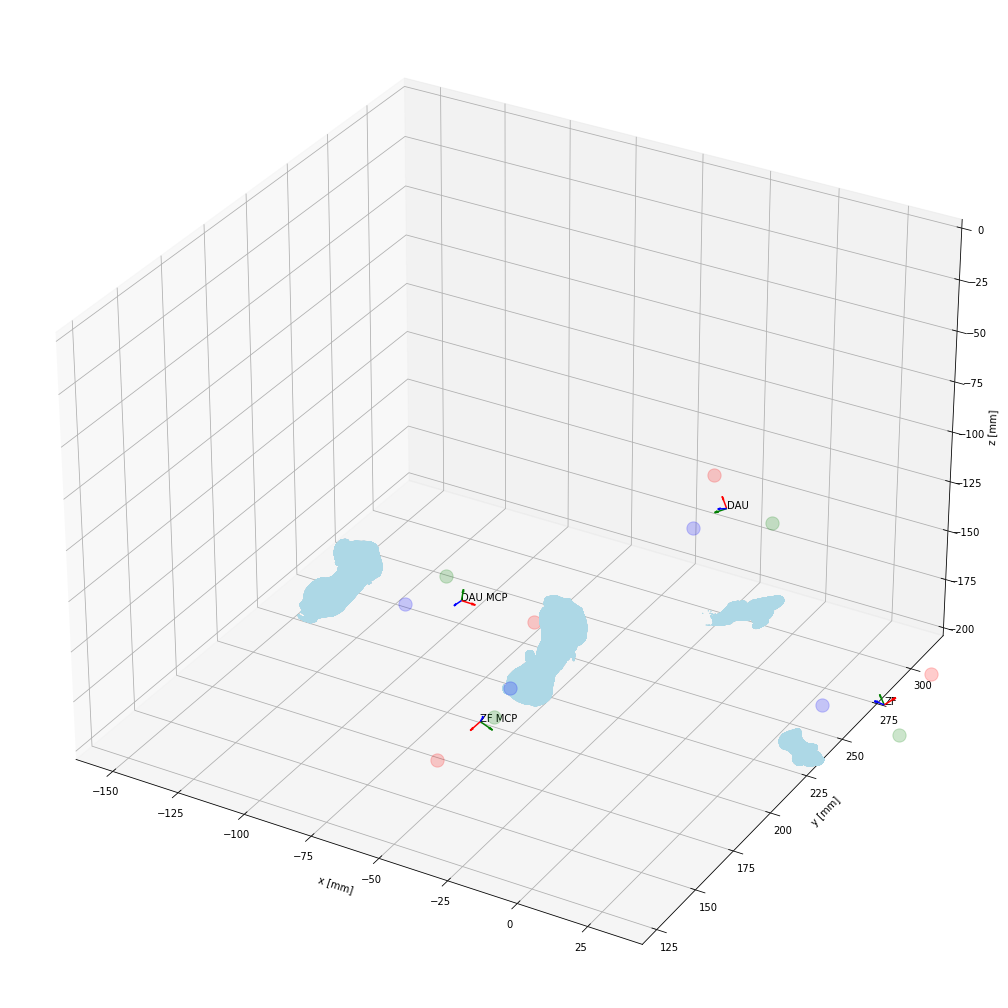
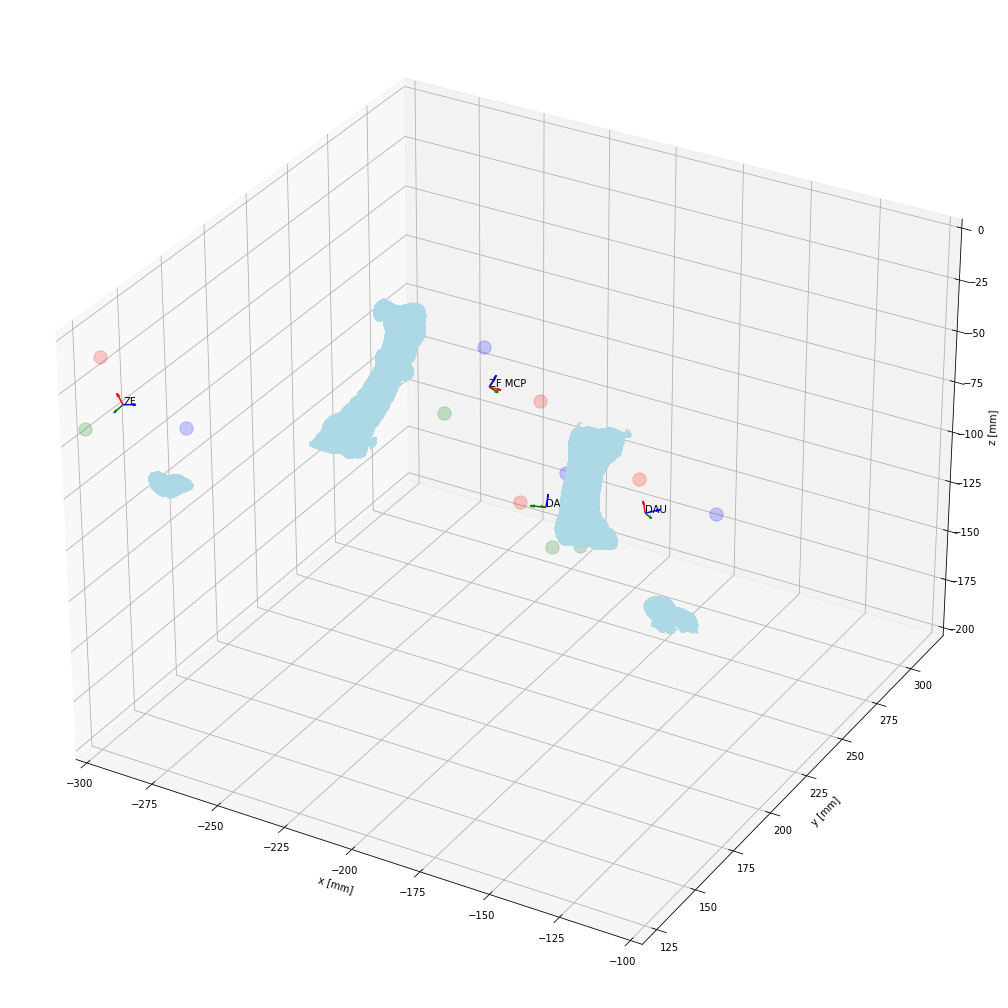
joints visualization improved, displaying trajectories in optitrack system

diff --git a/joints.py b/joints.py
@@ -1,0 +1,143 @@
+# %%
+
+import json
+import numpy as np
+import matplotlib.pyplot as plt
+from ipywidgets import widgets
+
+with open('./data/joints.json') as f:
+    data = json.load(f)
+
+data = np.array(data)
+data.shape
+# %%
+
+color_hand_joints = [[1.0, 0.0, 0.0],
+                     [0.0, 0.4, 0.0], [0.0, 0.6, 0.0], [
+                         0.0, 0.8, 0.0], [0.0, 1.0, 0.0],  # thumb
+                     [0.0, 0.0, 0.6], [0.0, 0.0, 1.0], [
+                         0.2, 0.2, 1.0], [0.4, 0.4, 1.0],  # index
+                     [0.0, 0.4, 0.4], [0.0, 0.6, 0.6], [
+                         0.0, 0.8, 0.8], [0.0, 1.0, 1.0],  # middle
+                     [0.4, 0.4, 0.0], [0.6, 0.6, 0.0], [
+                         0.8, 0.8, 0.0], [1.0, 1.0, 0.0],  # ring
+                     [0.4, 0.0, 0.4], [0.6, 0.0, 0.6], [0.8, 0.0, 0.8], [1.0, 0.0, 1.0]]  # little
+
+
+class HandJoints(object):
+    """
+    Data shape:
+    0: base
+    1: thumb base
+    2: thumb joint 1
+    3: thumb joint 2
+    4: thumb joint 3
+    5: index base
+    6: index joint 1
+    7: index joint 2
+    8: index joint 3
+    ...
+    """
+
+    def __init__(self, data) -> None:
+        super().__init__()
+        self.data = data
+        self.base = data[:, 0, :]
+        self.thumb_mcp = data[:, 1, :]
+        self.thumb_pip = data[:, 2, :]
+        self.thumb_dip = data[:, 3, :]
+        self.index_mcp = data[:, 4, :]
+        self.index_pip = data[:, 5, :]
+        self.index_dip = data[:, 6, :]
+        self.filter_data()
+
+    def filter_data(self, tfilt=0.9):
+        self.data_filtered = np.zeros(self.data.shape)
+        self.data_filtered[0, :, :] = self.data[0, :, :]
+        for i in range(1, self.data.shape[0]):
+            self.data_filtered[i, :, :] = tfilt * self.data_filtered[i-1, :, :] +(1 - tfilt) * self.data[i, :, :]
+
+
+    def plot(self, ax, timestamp: int):
+        ax.scatter(self.data[timestamp, 0, 0], self.data[timestamp,
+                                                         0, 1], self.data[timestamp, 0, 2], c='k')
+        self.plot_finger(ax, timestamp, 0, color='r')
+        self.plot_finger(ax, timestamp, 1, color='b')
+        self.plot_finger(ax, timestamp, 2, color='g')
+        self.plot_finger(ax, timestamp, 3, color='m')
+        self.define_limits(ax, timestamp)
+
+    def plot_finger(self, ax, timestamp: int, finger: int, color='r'):
+        finger_l = list(range(1 + finger * 3, 1 + finger * 3 + 3))
+        ax.scatter(self.data[timestamp, finger_l, 0], self.data[timestamp,
+                                                                finger_l, 1], self.data[timestamp, finger_l, 2], c=color, s=20)
+        finger_l.insert(0, 0)
+        ax.plot(self.data[timestamp, finger_l, 0], self.data[timestamp,
+                                                             finger_l, 1], self.data[timestamp, finger_l, 2], c=color)
+
+    def define_limits(self, ax, timestamp: int, rang=0.05):
+        p0 = self.data[1, 0, :]
+        ax.set_xlim3d([p0[0] - rang, p0[0] + rang])
+        ax.set_ylim3d([p0[1] - rang, p0[1] + rang])
+        ax.set_zlim3d([p0[2] - rang, p0[2] + rang])
+
+
+idx = widgets.IntSlider(min=0, max=data.shape[0] - 1, value=0)
+handj = HandJoints(data)
+
+
+def draw_3d_skeleton(pose_cam_xyz):
+    """
+    :param pose_cam_xyz: 21 x 3
+    :return:
+    """
+    assert pose_cam_xyz.shape[0] == 21
+    plt.figure(figsize=(16, 16))
+    ax = plt.subplot(111, projection='3d')
+    marker_sz = 10
+    line_wd = 2
+
+    for joint_ind in range(pose_cam_xyz.shape[0]):
+        ax.plot(pose_cam_xyz[joint_ind:joint_ind + 1, 0], pose_cam_xyz[joint_ind:joint_ind + 1, 1],
+                pose_cam_xyz[joint_ind:joint_ind + 1, 2], '.', c=color_hand_joints[joint_ind], markersize=marker_sz)
+        if joint_ind == 0:
+            continue
+        elif joint_ind % 4 == 1:
+            ax.plot(pose_cam_xyz[[0, joint_ind], 0], pose_cam_xyz[[0, joint_ind], 1], pose_cam_xyz[[0, joint_ind], 2],
+                    color=color_hand_joints[joint_ind], linewidth=line_wd)
+        else:
+            ax.plot(pose_cam_xyz[[joint_ind - 1, joint_ind], 0], pose_cam_xyz[[joint_ind - 1, joint_ind], 1],
+                    pose_cam_xyz[[joint_ind - 1, joint_ind],
+                                 2], color=color_hand_joints[joint_ind],
+                    linewidth=line_wd)
+
+    ax.axis('auto')
+    x_lim = [-0.1, 0.1, 0.02]
+    y_lim = [-0.1, 0.12, 0.02]
+    z_lim = [0.0, 0.8, 0.1]
+    x_ticks = np.arange(x_lim[0], x_lim[1], step=x_lim[2])
+    y_ticks = np.arange(y_lim[0], y_lim[1], step=y_lim[2])
+    z_ticks = np.arange(z_lim[0], z_lim[1], step=z_lim[2])
+    plt.xticks(x_ticks, [x_lim[0], '', '', '', '',
+                         0, '', '', '', x_lim[1]], fontsize=14)
+    plt.yticks(y_ticks, [y_lim[0], '', '', '', '', 0,
+                         '', '', '', -y_lim[0], ''], fontsize=14)
+    ax.set_zticks(z_ticks)
+    z_ticks = [''] * (z_ticks.shape[0])
+    z_ticks[4] = 0.4
+    ax.set_zticklabels(z_ticks, fontsize=14)
+    ax.view_init(elev=140, azim=80)
+    plt.subplots_adjust(left=-0.06, right=0.98, top=0.93,
+                        bottom=-0.07, wspace=0, hspace=0)
+
+handj.filter_data(tfilt=0.95)
+def update(idx):
+    draw_3d_skeleton(handj.data_filtered[idx, :, :])
+
+
+widgets.interact(update, idx=idx)
+
+# %%
+handj.filter_data(tfilt=0.95)
+plt.plot(handj.data_filtered[:, 0, 0])
+# %%

diff --git a/display_stl.py b/display_stl.py
@@ -254,19 +254,17 @@ class Tracker(object):
         - return the diff and rotation applyed
         """
         # 1. take data from loc-data
-        t_opt_ct = np.transpose(t_ct_opt)
         pos = loc_data['pos']
         t_q_opt = loc_data['rot_matrix']
 
         # 2. calculate the difference in position
-        new_pos = t_ct_opt @ pos * scale + offset
+        new_pos = np.array(pos) * scale  # t_ct_opt @ pos * scale + offset
         diff_pos = (new_pos - self.center)
 
         # 3. calculate the difference in rotation
         t_tr_q = self.t_tr_q
         t_ct_old = self.t_ct_tr
-        t_new_ct = t_tr_q @ t_q_opt @ t_opt_ct
-        t_neu_old = t_tr_q @ t_q_opt @ t_opt_ct @ t_ct_old
+        t_neu_opt = t_tr_q @ t_q_opt
 
         # 4. return diffpos and rotation
         print(self.name)
@@ -274,13 +272,14 @@ class Tracker(object):
         print(np.around(self.t_tr_ct, decimals=1))
 
         print('des rot:')
-        print(np.around(t_new_ct, decimals=1))
+        print(np.around(t_neu_opt, decimals=1))
 
         print('req_rot:')
-        print(np.around(t_neu_old, decimals=1))
+        print(np.around(t_neu_opt, decimals=1))
 
         print('final1:')
-        self.rotate(t_neu_old.T, self.center)
+        self.rotate(t_ct_old.T, self.center)
+        self.rotate(t_neu_opt.T, self.center)
         self.translate(diff_pos)
 
 
@@ -413,7 +412,7 @@ class HandMesh(object):
             self.z_max = np.max([self.thumb.t_dp.center[2], self.index.t_dp.center[2],
                                  self.thumb.t_mcp.center[2], self.index.t_mcp.center[2]]) + offset
         else:
-            self.x_min, self.x_max = -160, 40,
+            self.x_min, self.x_max = -300, -100,
             self.y_min, self.y_max = 120, 320,
             self.z_min, self.z_max = -200, 0
 
@@ -550,4 +549,5 @@ if __name__ == '__main__':
     idx = widgets.IntSlider(value=2000, min=0, max=len(data.time))
     hand = HandMesh(opttr, add_bones=False)
     widgets.interact(update_all, ind=idx)
+
 # %%

diff --git a/read_test.py b/read_test.py
@@ -58,7 +58,7 @@ class RigidBodyAssignment:
 
 class TestEvaluator():
 
-    def __init__(self, finger_a: FingerAssignment, body_a: RigidBodyAssignment, name='closeer.json'):
+    def __init__(self, finger_a: FingerAssignment, body_a: RigidBodyAssignment, name='init_1vs1.json'):
 
         # read the json
 
